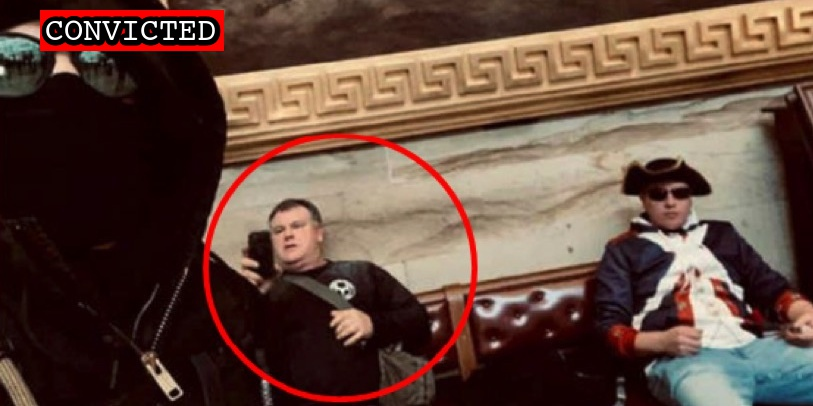
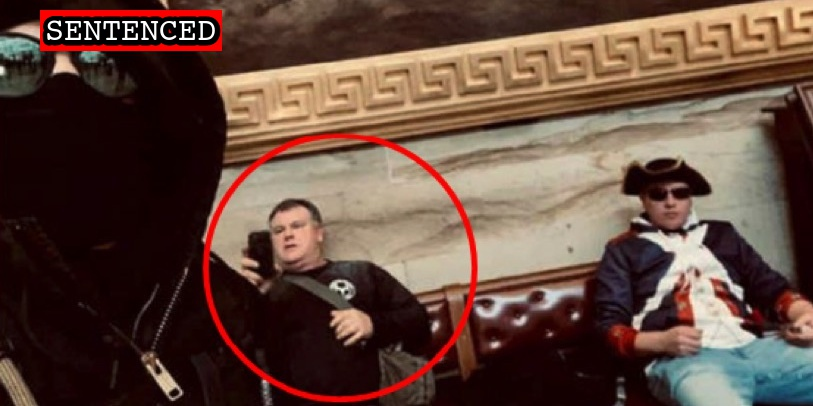
Petrosh sentence

Changed region(s): [[0.0308, 0.0296, 0.2153, 0.1182], [0.246, 0.0296, 0.2768, 0.1182]]

diff --git a/docs/_suspects/robert-petrosh.md b/docs/_suspects/robert-petrosh.md
@@ -4,12 +4,12 @@ lastName: Petrosh
 hashtag: RobertPetrosh
 aka:
 residence: New Jersey
-status: Convicted
+status: Sentenced
 date: 2021-04-29
 charged: 2021-04-29
 indicted:
 convicted: 2022-01-07
-sentenced:
+sentenced: 2022-03-25
 dismissed:
 deceased:
 plea_hearing: 2022-01-07
@@ -34,12 +34,17 @@ published: true
 caseNumber: 1:21-cr-347
 videos:
 charges:
-- code: 18 USC § 641
-  title: Theft of Government Property
-  url: https://www.law.cornell.edu/uscode/text/18/641
-  felony: false
+  - code: 18 USC § 641
+    title: Theft of Government Property
+    url: https://www.law.cornell.edu/uscode/text/18/641
+    felony: false
 sentence:
+  - 10 days in prison
+  - 12 months probation
+  - $1,000 fine
+  - $500 restitution
 ---
+
 - [News Report](https://www.nj.com/news/2021/05/grandmother-helped-tip-off-fbi-about-nj-man-charged-with-being-at-capitol-riot-feds-say.html)
 - [Statement of Facts](https://www.justice.gov/usao-dc/case-multi-defendant/file/1469096/download)
 - [Information](https://www.justice.gov/usao-dc/case-multi-defendant/file/1459951/download)
